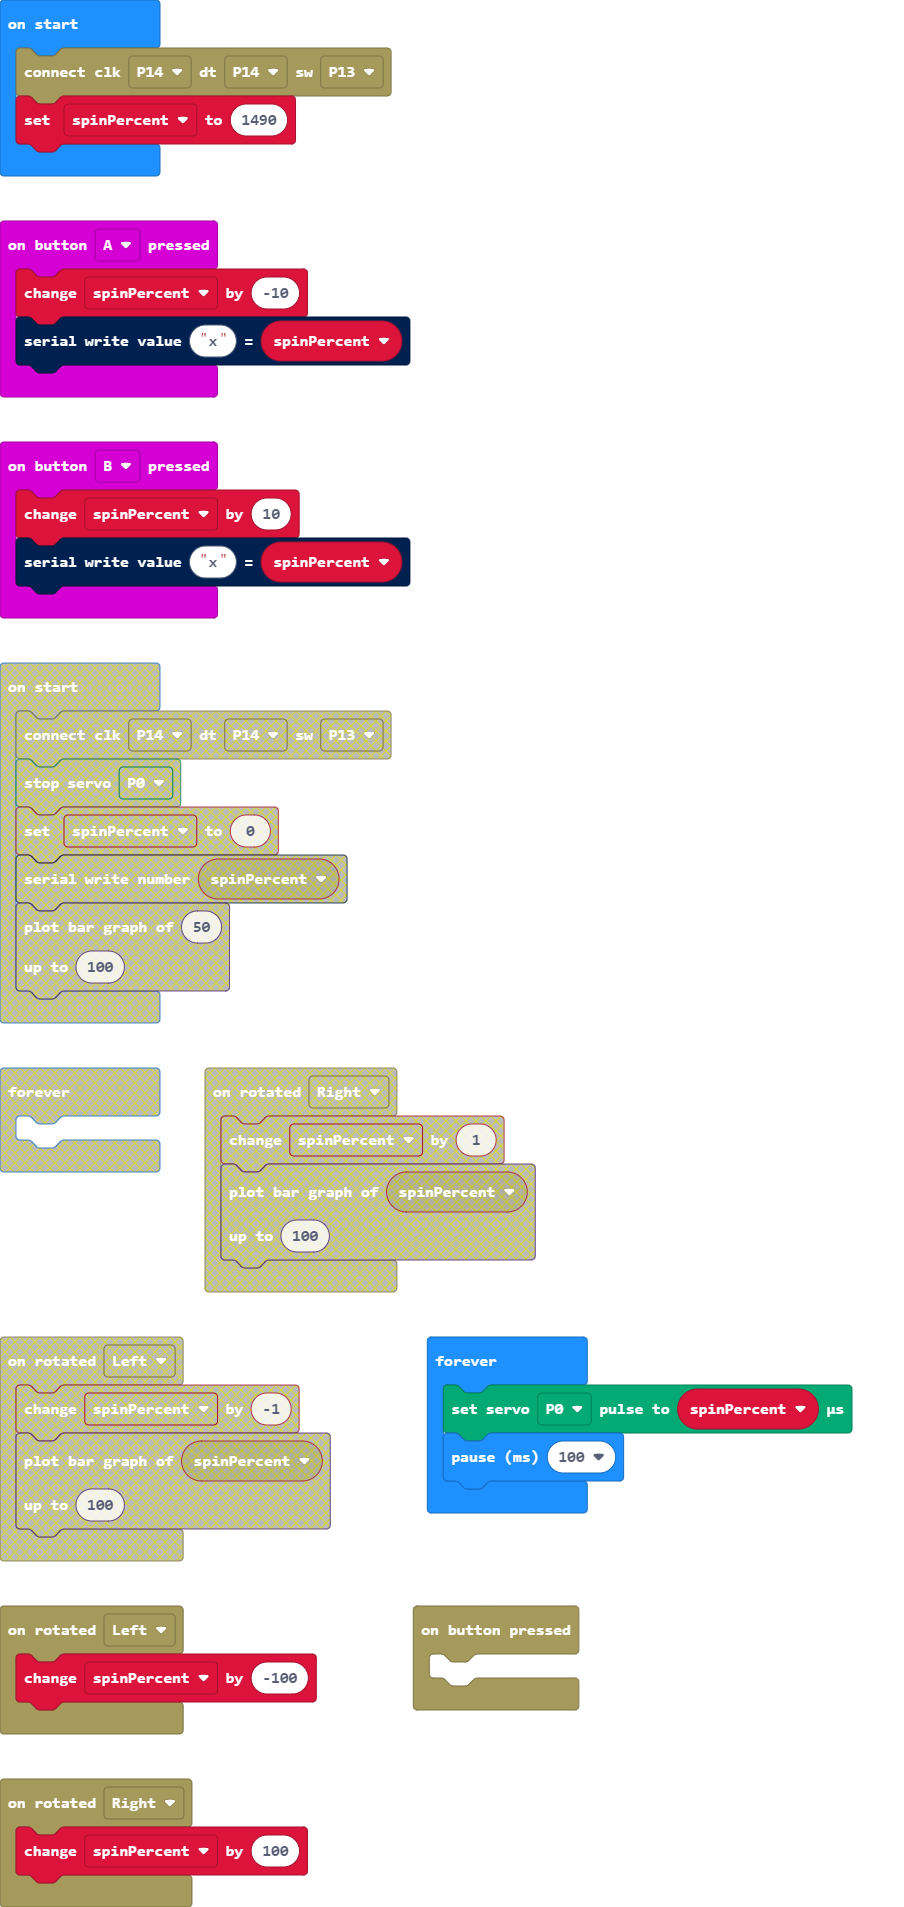
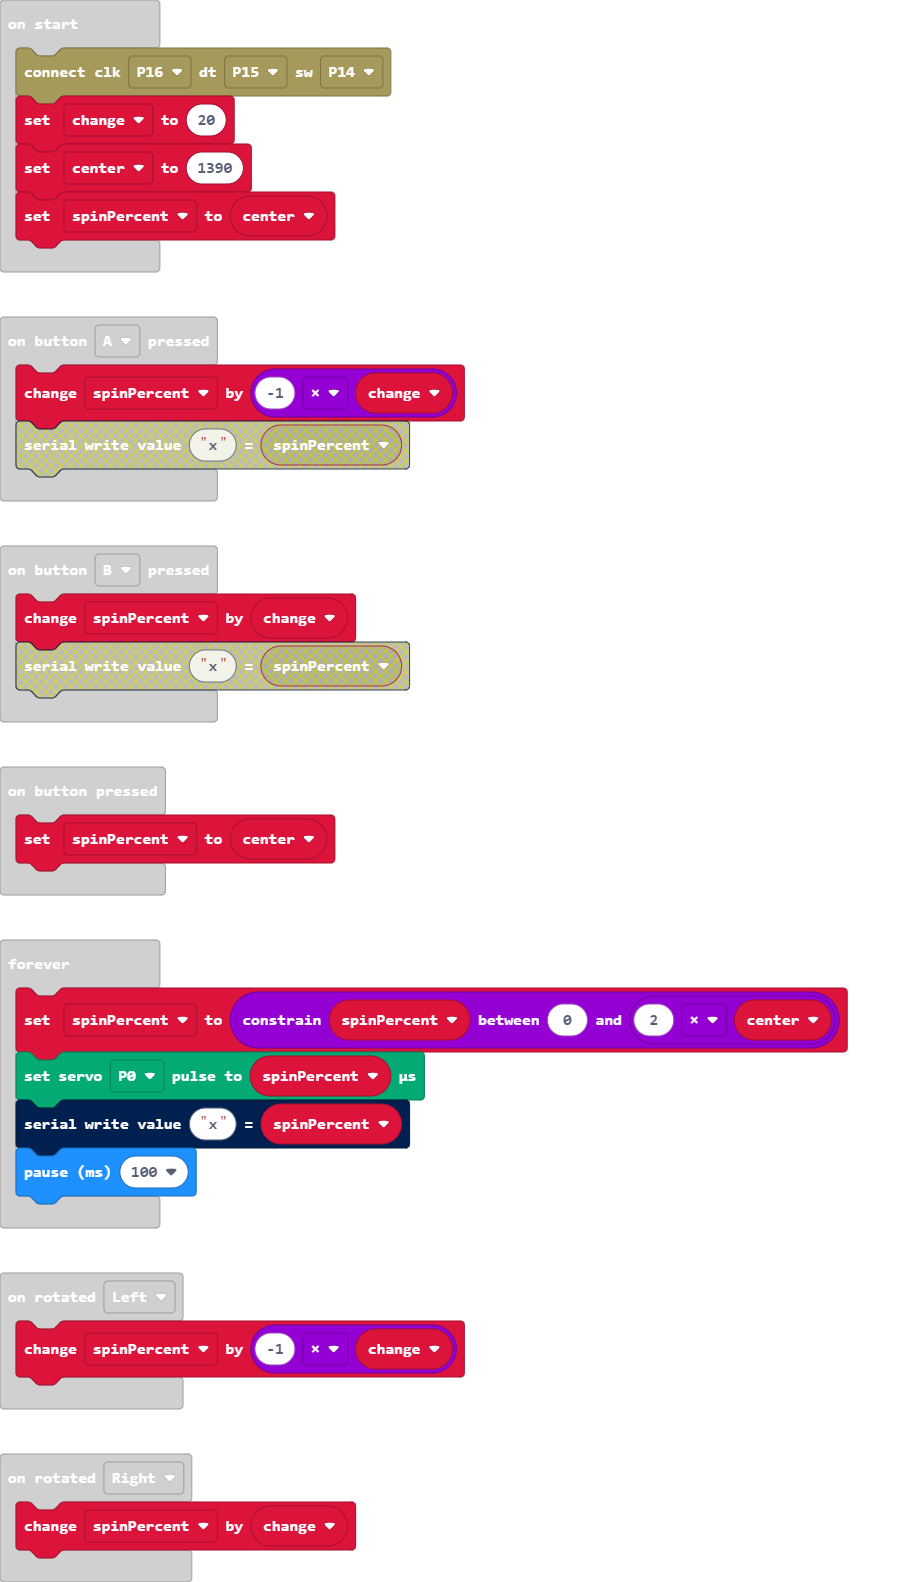
all variables

diff --git a/main.ts b/main.ts
@@ -1,24 +1,28 @@
 RotaryEncoder.onRotateEvent(RotationDirection.Left, function () {
-    spinPercent += -100
+    spinPercent += -1 * change
 })
 RotaryEncoder.onPressEvent(function () {
-	
+    spinPercent = center
 })
 input.onButtonPressed(Button.A, function () {
-    spinPercent += -10
-    serial.writeValue("x", spinPercent)
+    spinPercent += -1 * change
 })
 input.onButtonPressed(Button.B, function () {
-    spinPercent += 10
-    serial.writeValue("x", spinPercent)
+    spinPercent += change
 })
 RotaryEncoder.onRotateEvent(RotationDirection.Right, function () {
-    spinPercent += 100
+    spinPercent += change
 })
 let spinPercent = 0
-RotaryEncoder.init(Pins.P14, Pins.P14, Pins.P13)
-spinPercent = 1490
+let center = 0
+let change = 0
+RotaryEncoder.init(Pins.P16, Pins.P15, Pins.P14)
+change = 20
+center = 1390
+spinPercent = center
 basic.forever(function () {
+    spinPercent = Math.constrain(spinPercent, 0, 2 * center)
     servos.P0.setPulse(spinPercent)
+    serial.writeValue("x", spinPercent)
     basic.pause(100)
 })
